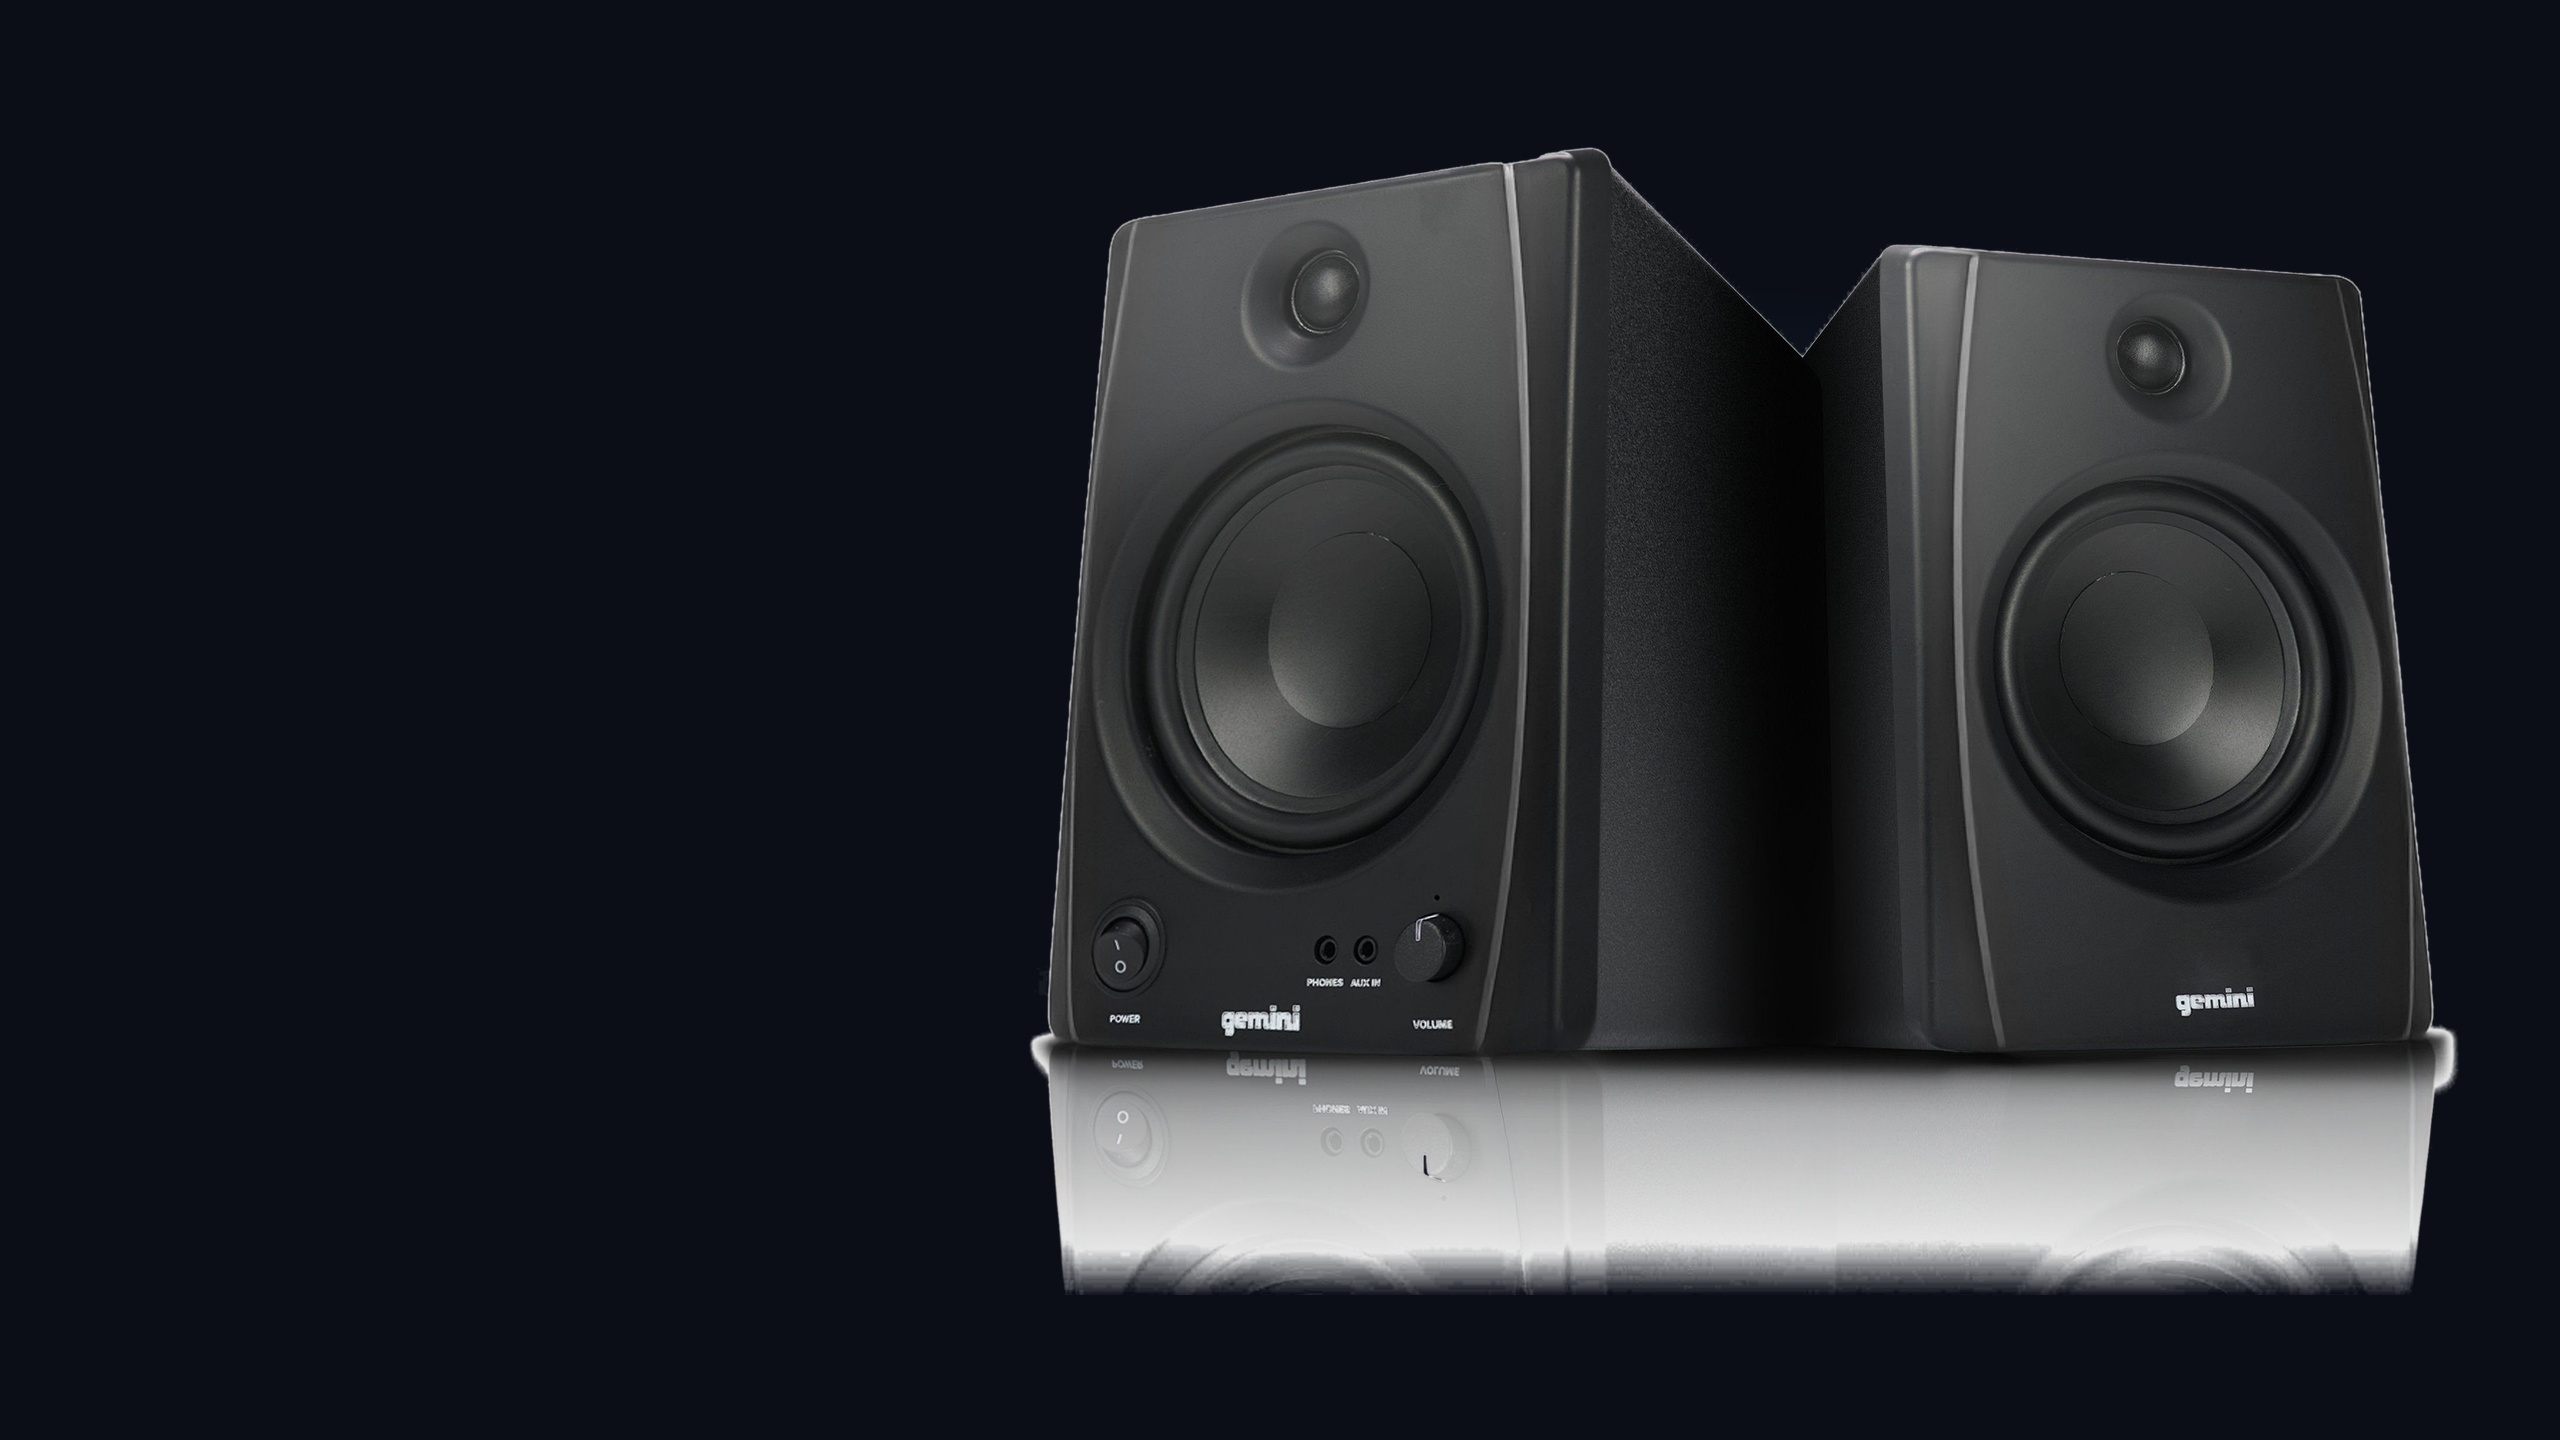
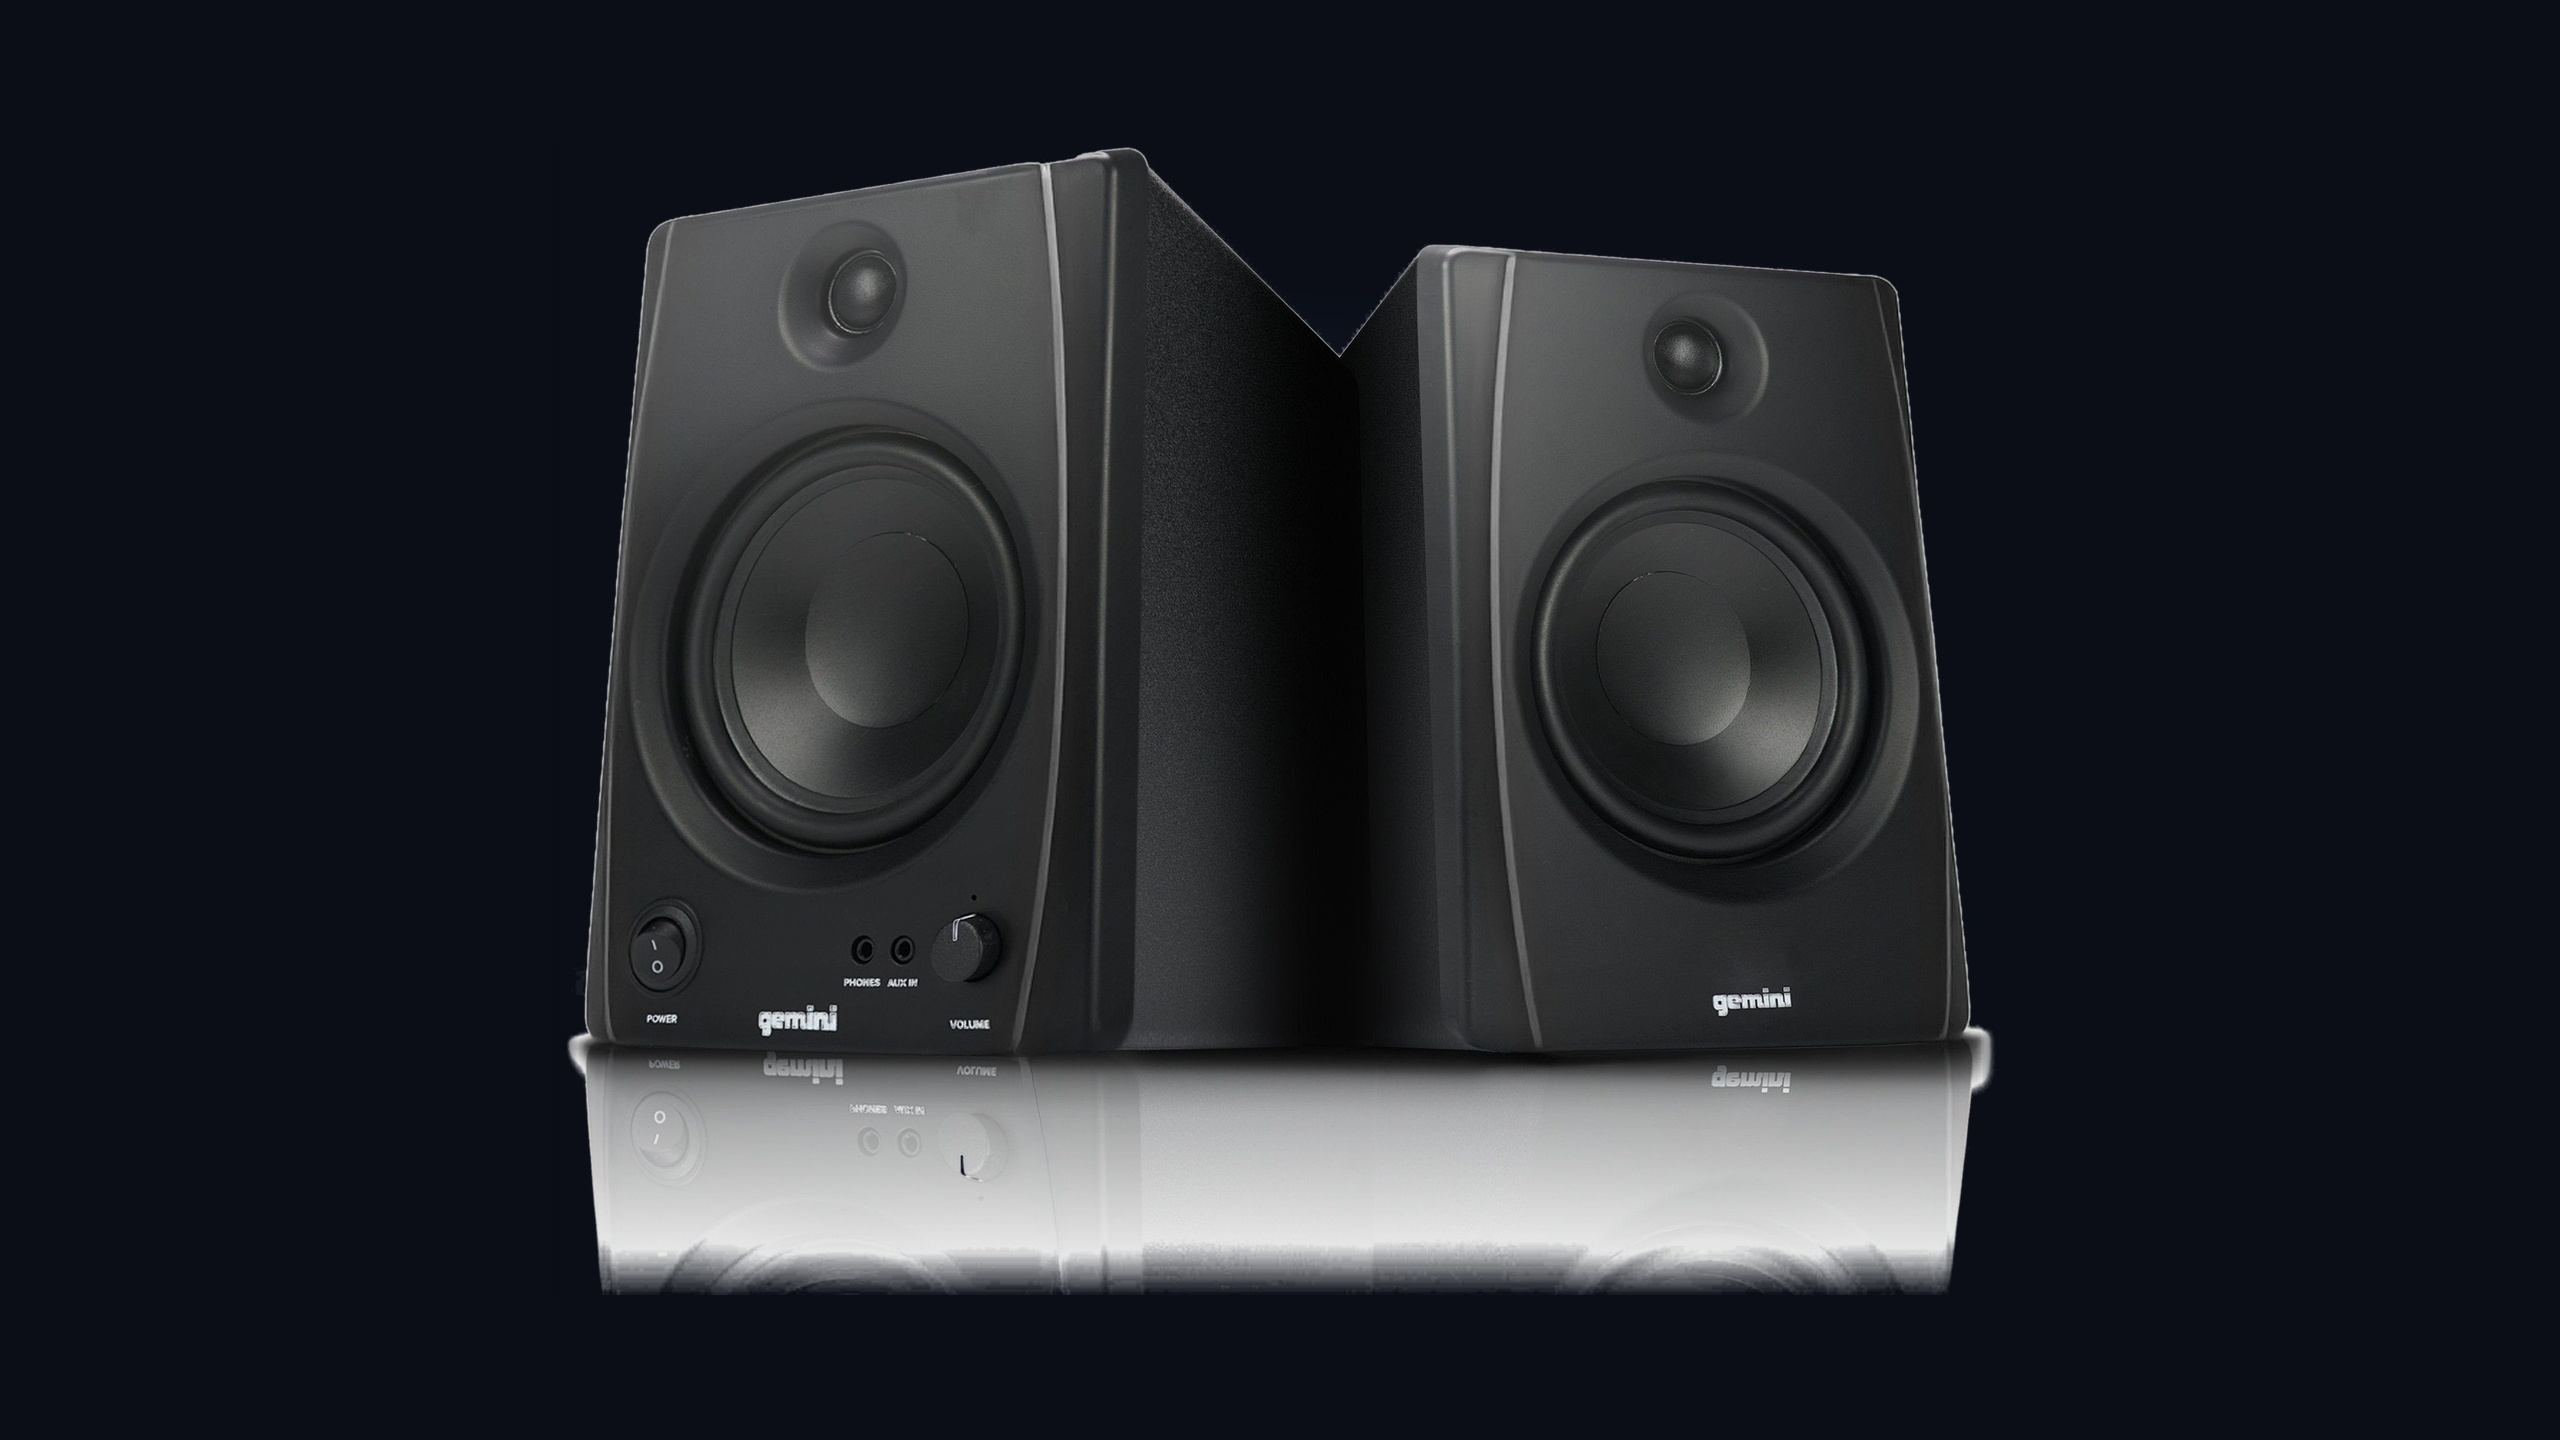
Fix mobile transition images: shift speaker left and enable full-size aspect-ratio display without black bars for remaining 4 slides

diff --git a/assets/css/styles.css b/assets/css/styles.css
@@ -3845,6 +3845,75 @@ img, video, iframe {
     pointer-events: none;
   }
 
+  /* Remaining 4 Transition Slides: Full-Size Display without Black Bars */
+  .slide-item[data-slide="1"],
+  .slide-item[data-slide="3"],
+  .slide-item[data-slide="4"],
+  .slide-item[data-slide="5"] {
+    display: flex !important;
+    flex-direction: column !important;
+    justify-content: flex-start !important;
+    align-items: stretch !important;
+    padding: 0 !important;
+    background-color: #0B0E17 !important;
+  }
+
+  .slide-item[data-slide="1"] .slide-bg-container,
+  .slide-item[data-slide="5"] .slide-bg-container {
+    position: relative !important;
+    inset: auto !important;
+    width: 100% !important;
+    height: auto !important;
+    aspect-ratio: 16 / 9 !important;
+    background-color: transparent !important;
+    overflow: hidden !important;
+    flex-shrink: 0 !important;
+  }
+
+  .slide-item[data-slide="3"] .slide-bg-container,
+  .slide-item[data-slide="4"] .slide-bg-container {
+    position: relative !important;
+    inset: auto !important;
+    width: 100% !important;
+    height: auto !important;
+    aspect-ratio: 1376 / 768 !important;
+    background-color: transparent !important;
+    overflow: hidden !important;
+    flex-shrink: 0 !important;
+  }
+
+  .slide-item[data-slide="1"] .slide-img,
+  .slide-item[data-slide="3"] .slide-img,
+  .slide-item[data-slide="4"] .slide-img,
+  .slide-item[data-slide="5"] .slide-img {
+    position: relative !important;
+    top: auto !important;
+    left: auto !important;
+    width: 100% !important;
+    height: 100% !important;
+    object-fit: contain !important;
+    display: block !important;
+  }
+
+  .slide-item[data-slide="1"] .slide-overlay,
+  .slide-item[data-slide="3"] .slide-overlay,
+  .slide-item[data-slide="4"] .slide-overlay,
+  .slide-item[data-slide="5"] .slide-overlay {
+    position: absolute !important;
+    inset: 0 !important;
+    background: linear-gradient(180deg, rgba(11, 14, 23, 0) 65%, rgba(11, 14, 23, 0.75) 100%) !important;
+  }
+
+  .slide-item[data-slide="1"] .slide-content-wrapper,
+  .slide-item[data-slide="3"] .slide-content-wrapper,
+  .slide-item[data-slide="4"] .slide-content-wrapper,
+  .slide-item[data-slide="5"] .slide-content-wrapper {
+    position: relative !important;
+    z-index: 5 !important;
+    width: 100% !important;
+    padding: 0.75rem 1rem 1.75rem !important;
+  }
+
   .slide-content-wrapper {
     position: relative !important;
     z-index: 5 !important;
